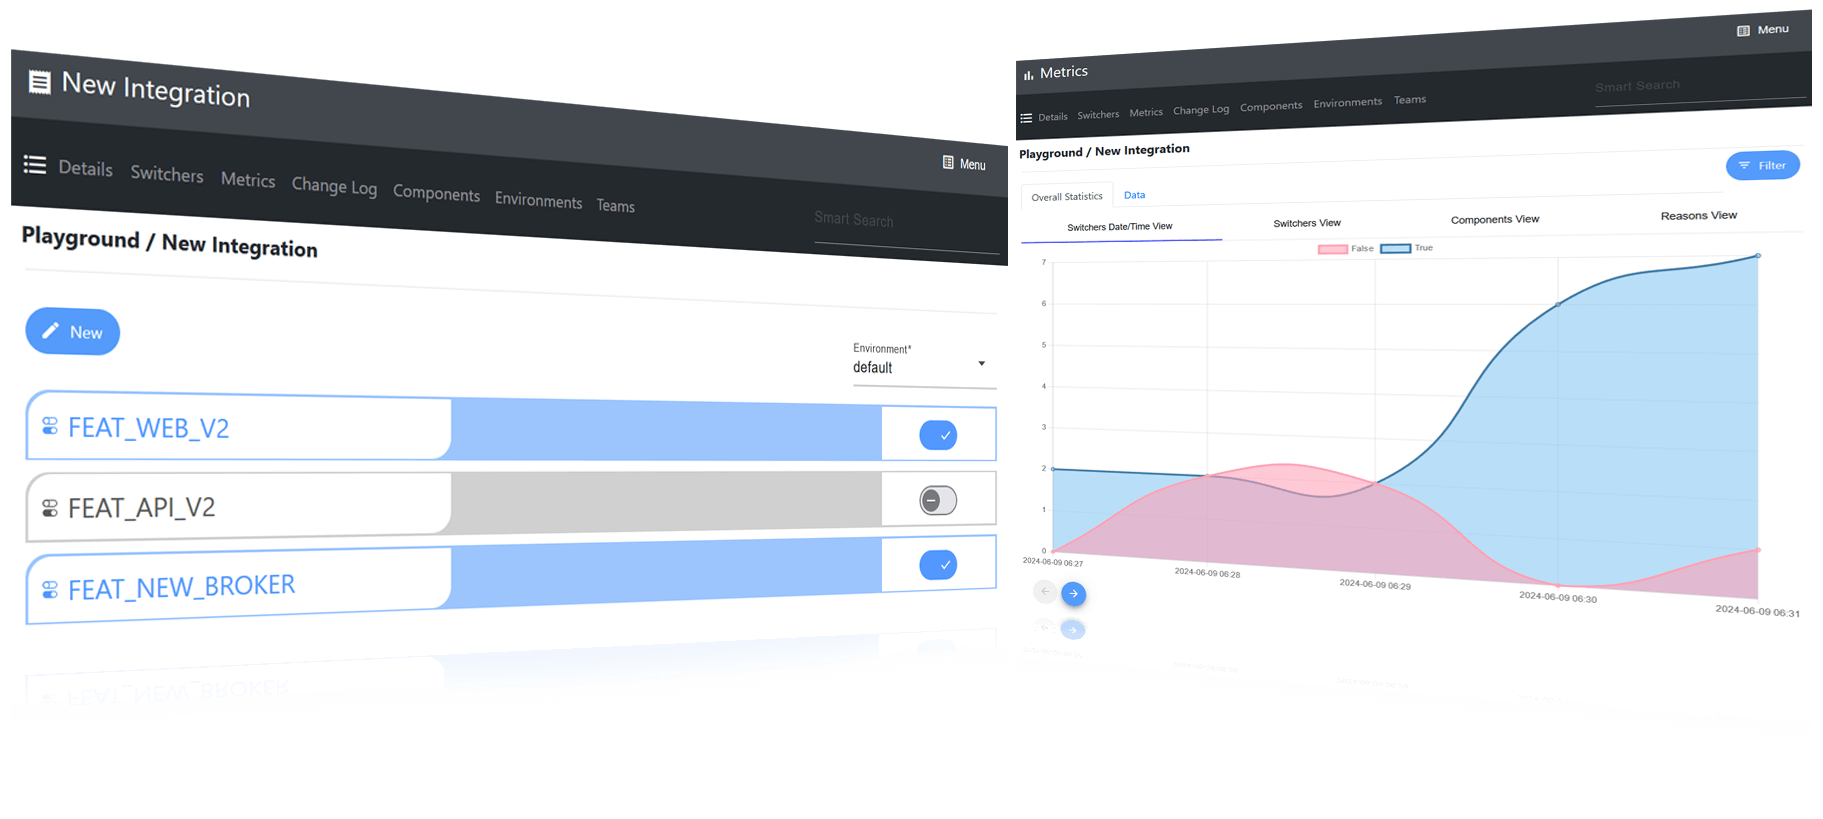
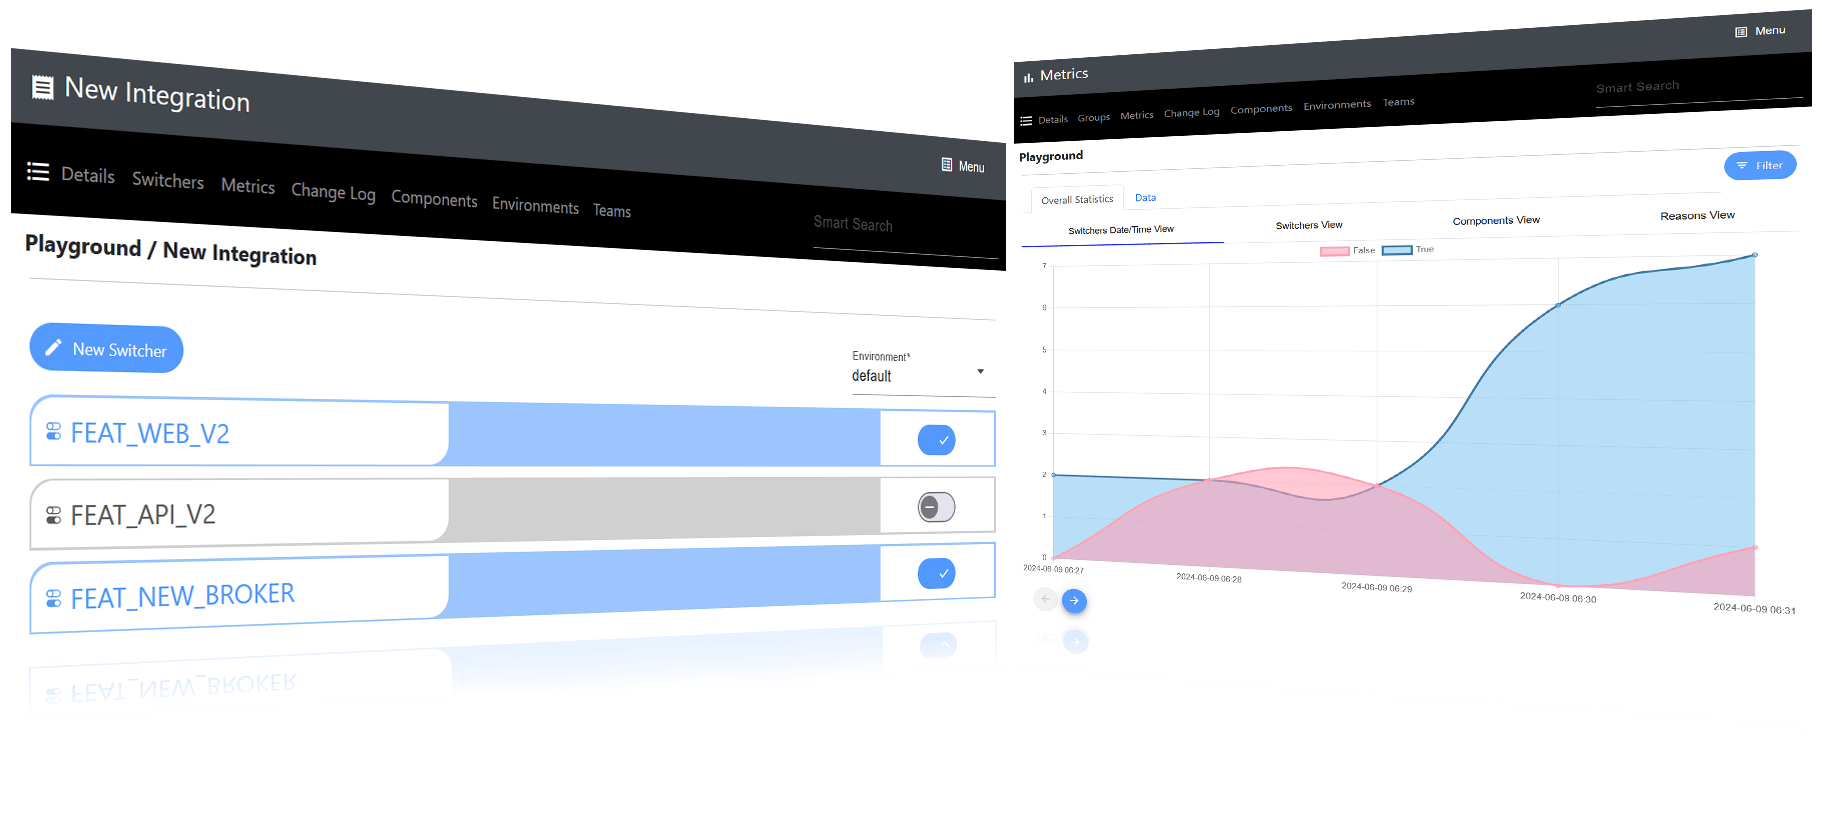
Fixes list components new button on mobile. Updated showcase samples

diff --git a/src/app/dashboard-module/domain-module/config/config-create/config-create.component.html b/src/app/dashboard-module/domain-module/config/config-create/config-create.component.html
@@ -1,6 +1,6 @@
 <h4 mat-dialog-title>
     <mat-toolbar role="toolbar" class="dialog-header">
-        <span>New switcher</span>
+        <span>New Switcher</span>
         <span class="fx-spacer"></span>
         <button mat-icon-button (click)="onCancel()">
             <mat-icon mat-list-icon>close</mat-icon>

diff --git a/src/app/dashboard-module/domain-module/group/group-create/group-create.component.html b/src/app/dashboard-module/domain-module/group/group-create/group-create.component.html
@@ -1,6 +1,6 @@
 <h4 mat-dialog-title>
     <mat-toolbar role="toolbar" class="dialog-header">
-        <span>New group</span>
+        <span>New Group</span>
         <span class="fx-spacer"></span>
         <button mat-icon-button (click)="onCancel()">
             <mat-icon mat-list-icon>close</mat-icon>

diff --git a/src/app/dashboard-module/domain-module/config/config-list/config-list.component.css b/src/app/dashboard-module/domain-module/config/config-list/config-list.component.css
@@ -1,3 +1,13 @@
+.header-style {
+    height: 80px;
+}
+
 .btn-element {
-    margin-bottom: 1rem;
+    white-space: nowrap;
+}
+
+@media screen and (max-width: 380px) {
+    :host ::ng-deep .mat-mdc-form-field-infix {
+        width: 150px;
+    }
 }

diff --git a/src/app/dashboard-module/domain-module/group/group-list/group-list.component.css b/src/app/dashboard-module/domain-module/group/group-list/group-list.component.css
@@ -1,3 +1,13 @@
+.header-style {
+    height: 80px;
+}
+
 .btn-element {
-    margin-bottom: 1rem;
+    white-space: nowrap;
+}
+
+@media screen and (max-width: 380px) {
+    :host ::ng-deep .mat-mdc-form-field-infix {
+        width: 150px;
+    }
 }
